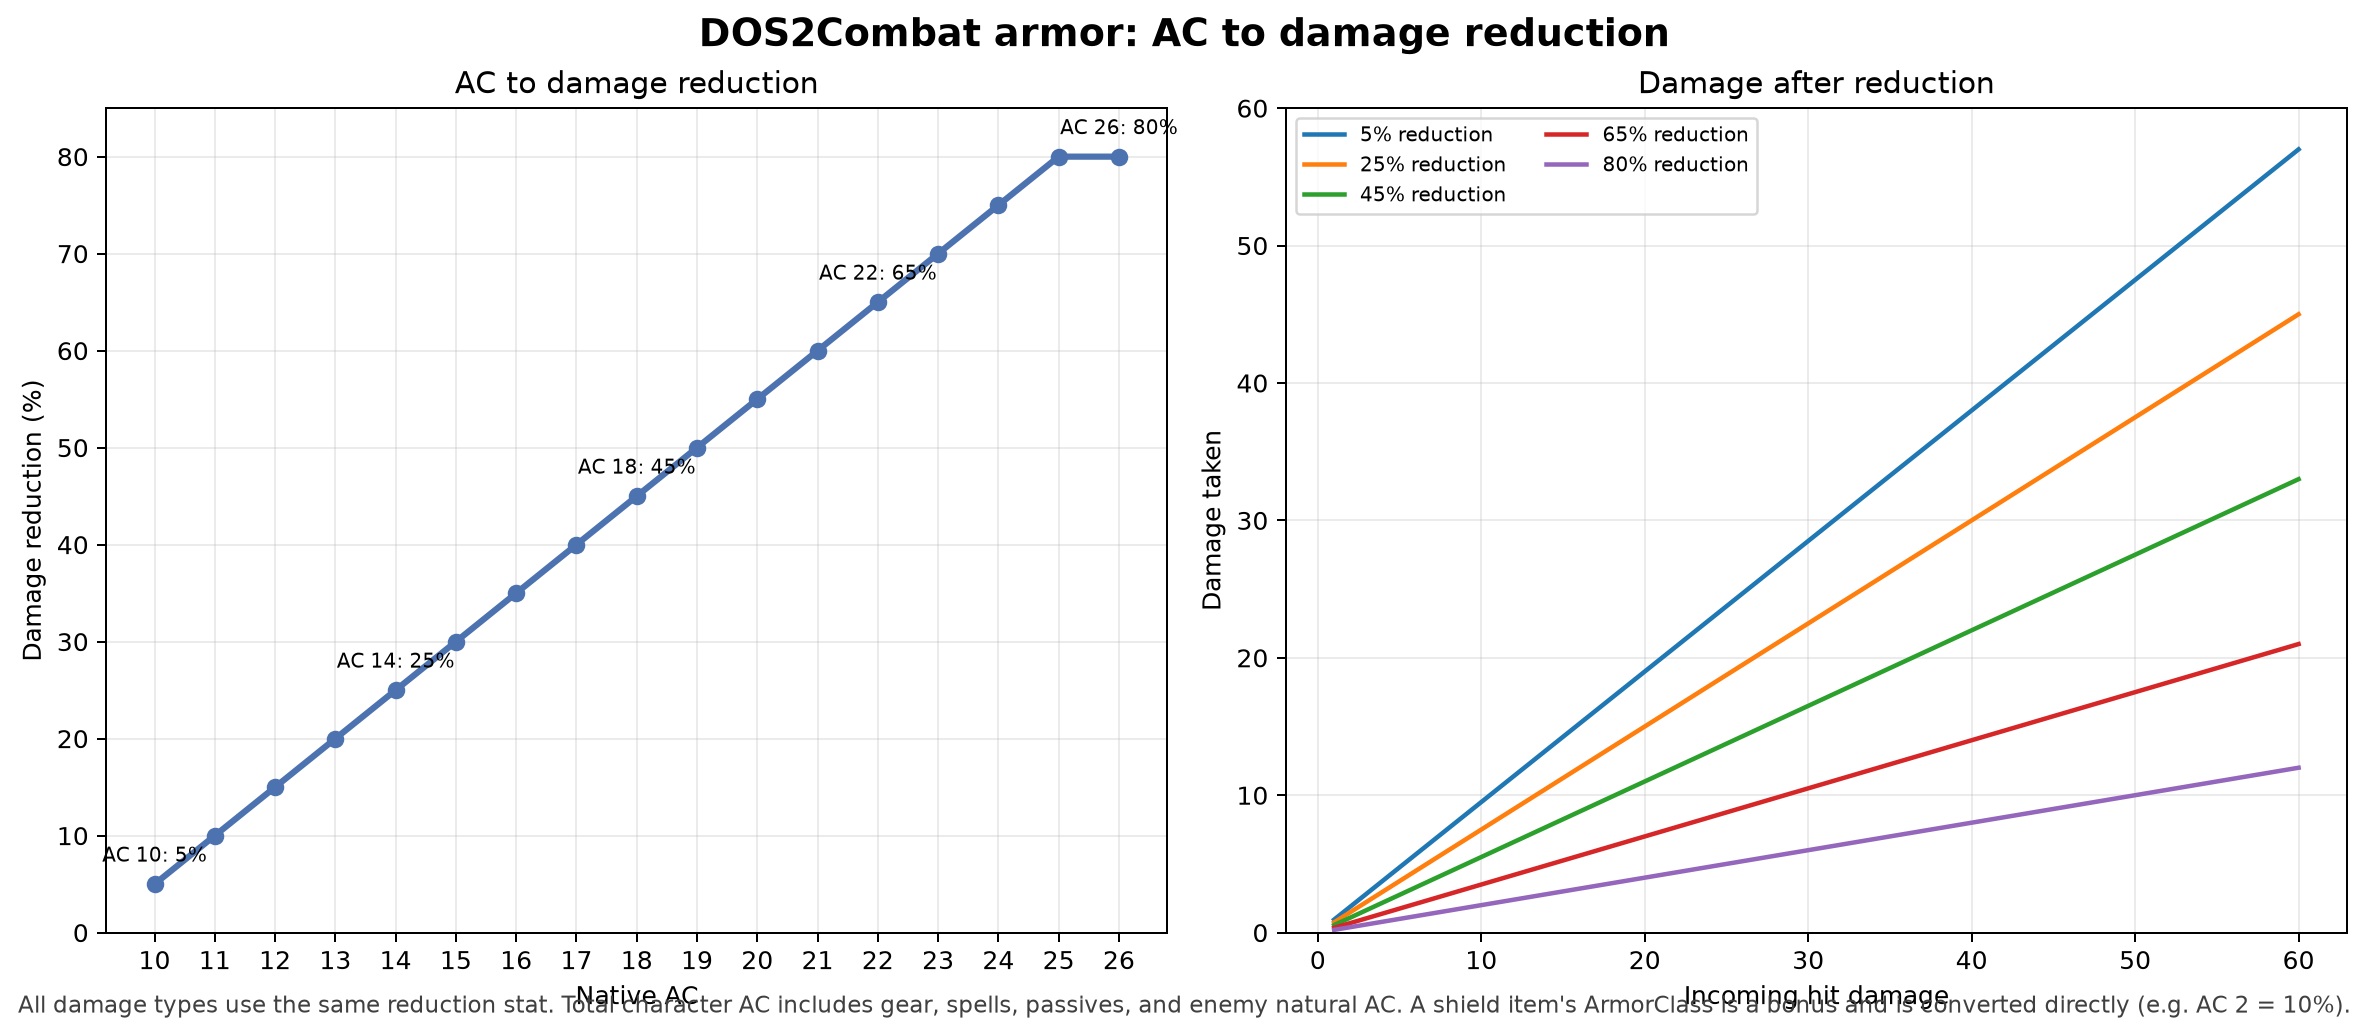
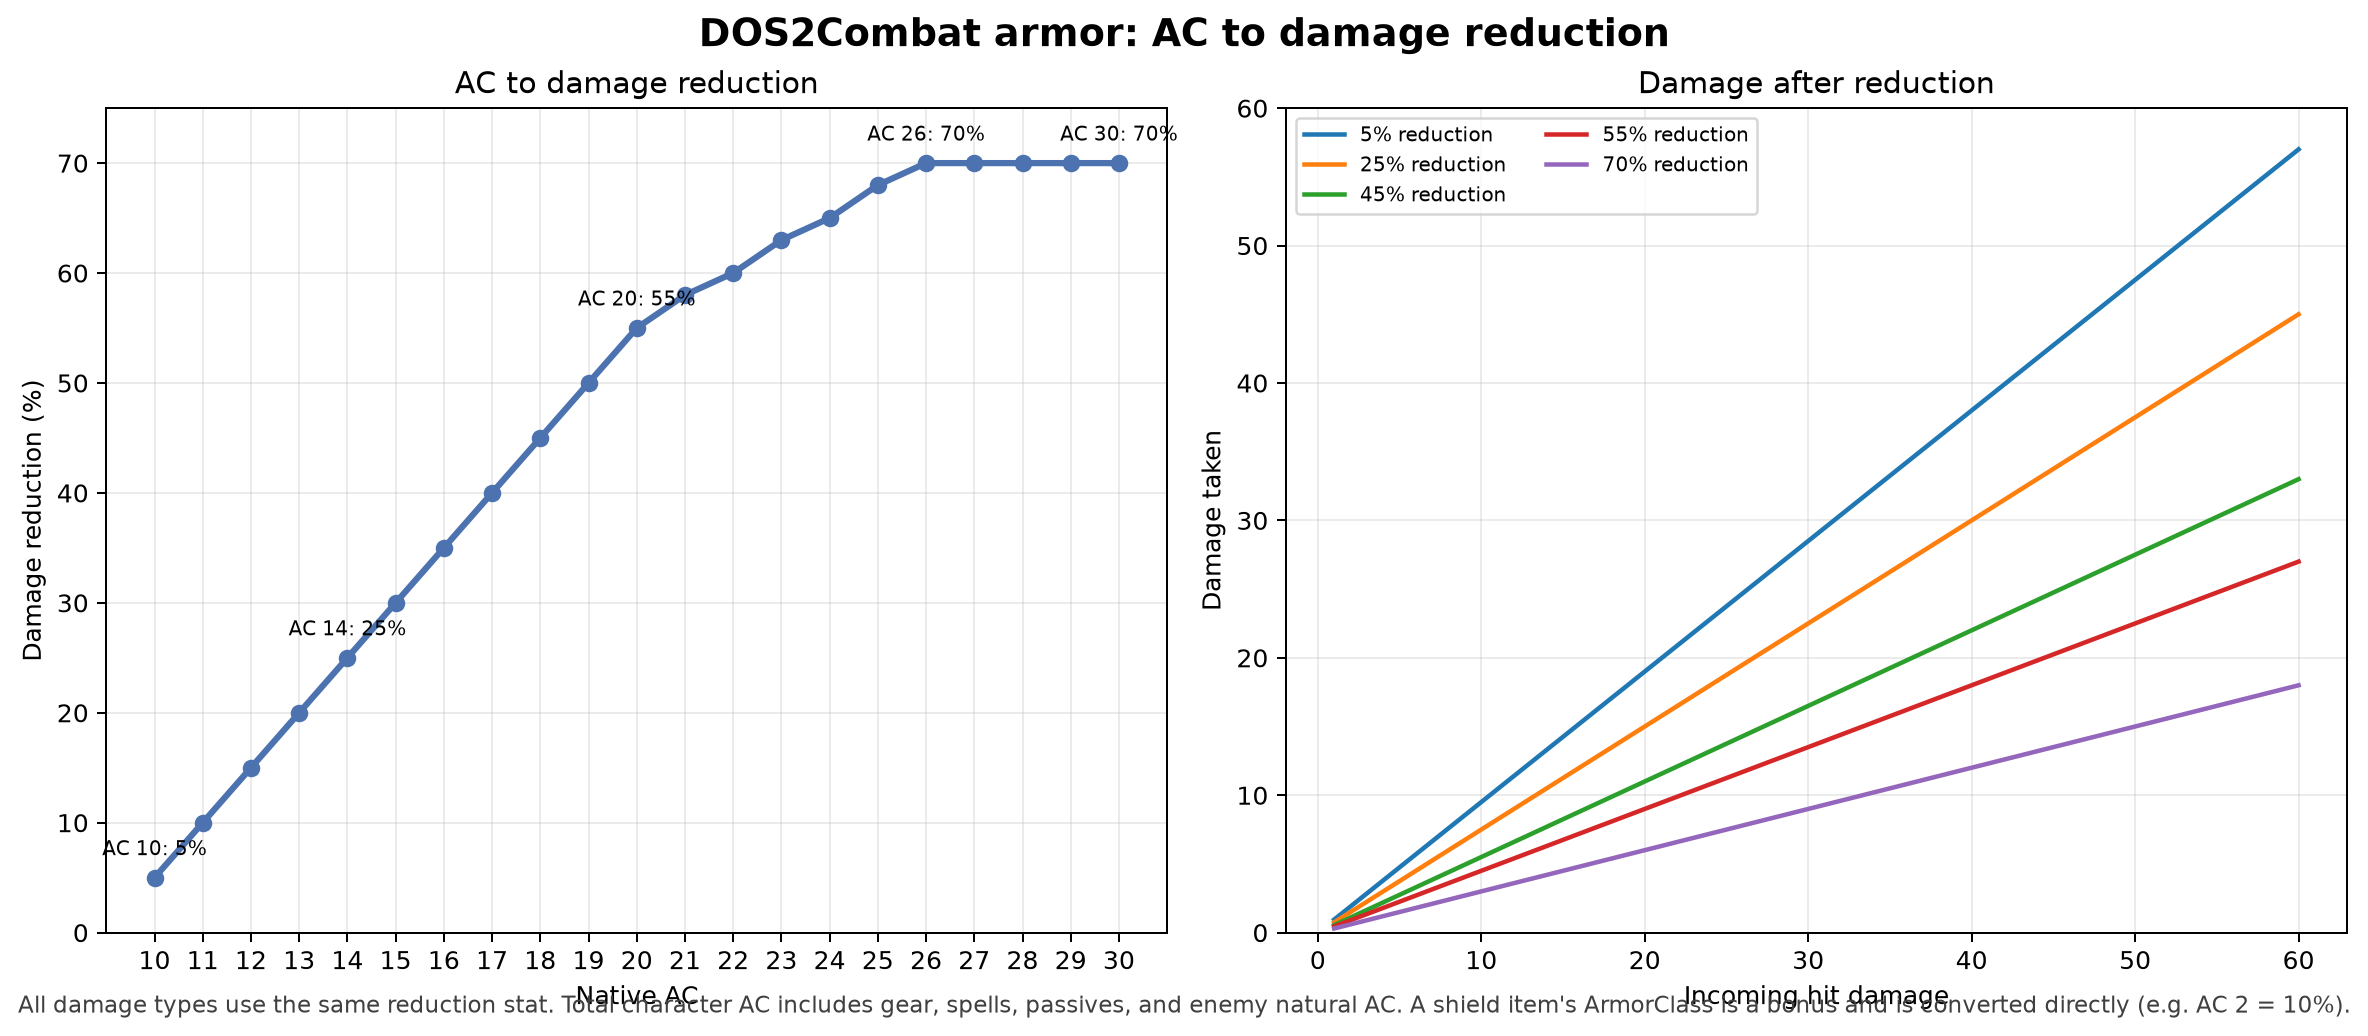
Cap damage reduction at 70 percent
Keep 5% per AC through AC 20, then use 2.5% per AC so AC 26+ caps at 70%. Regenerate tooltips/passives, graph, docs, and tests.

diff --git a/tests/test_dos2combat_utils.py b/tests/test_dos2combat_utils.py
@@ -108,7 +108,10 @@ class ArmorFormulaTests(unittest.TestCase):
     def test_ac_to_percentage_reduction(self):
         self.assertEqual(self.formula.Percent(10, False), 5)
         self.assertEqual(self.formula.Percent(14, False), 25)
+        self.assertEqual(self.formula.Percent(20, False), 55)
+        self.assertEqual(self.formula.Percent(21, False), 58)
+        self.assertEqual(self.formula.Percent(26, False), 70)
         self.assertEqual(self.formula.Percent(2, True), 10)
         self.assertAlmostEqual(self.formula.Fraction(14, False), 0.25)
         self.assertEqual(self.formula.PassiveName(13.2), "DOS2C_ArmorInfo_R13")
-        self.assertEqual(self.formula.Percent(99, False), 80)
+        self.assertEqual(self.formula.Percent(99, False), 70)

diff --git a/tests/test_manifests.py b/tests/test_manifests.py
@@ -80,7 +80,7 @@ class ManifestTests(unittest.TestCase):
             / "ArmorPassives.txt"
         )
         stats = parse_stats(path)
-        for percent in (0, 5, 10, 25, 80):
+        for percent in (0, 5, 10, 25, 70):
             with self.subTest(percent=percent):
                 self.assertIn(f"DOS2C_ArmorInfo_R{percent}", stats)
 

diff --git a/scripts/generate-armor-passives.py b/scripts/generate-armor-passives.py
@@ -20,7 +20,7 @@ LOCA = ROOT / "mods/DOS2Combat/Localization/English/DOS2Combat.loca"
 NS = uuid.UUID("6ba7b810-9dad-11d1-80b4-00c04fd430c8")
 
 # Matches Config.ARMOR_REDUCTION_MAX.
-MAX_PERCENT = 80
+MAX_PERCENT = 70
 
 
 def handle(tag: str) -> str:

diff --git a/README.md b/README.md
@@ -117,8 +117,9 @@ Ubuntu runner because LSLib requires Windows.
 - All AC sources are converted into **one percentage damage-reduction stat**.
   There are no separate physical and magic armor buckets. Every damage type
   uses the same reduction.
-- The formula is `(AC - 9) x 5%`, capped at 80%: AC 10 = 5%, AC 14 = 25%,
-  AC 20 = 55%. Shield items use their ArmorClass bonus directly.
+- The formula gives 5% per AC above 9 through AC 20, then 2.5% per AC,
+  capped at 70% from AC 26 onward: AC 10 = 5%, AC 14 = 25%, AC 20 = 55%,
+  AC 26 = 70%. Shield items use their ArmorClass bonus directly.
 - Enemy AC is converted into damage reduction instead of remaining as hit
   avoidance. A hidden no-dodge status also cancels AC from statuses, spells,
   and passives, including `ACOverrideFormula` effects.

diff --git a/TODO.md b/TODO.md
@@ -231,8 +231,9 @@ Known DOS2 visual references for the current test spells:
 
 - [x] Armor no longer depletes; all AC sources feed one percentage
       damage-reduction stat.
-- [x] Formula: `(AC - 9) x 5%`, capped at 80%. AC 10 = 5%, AC 14 = 25%,
-      AC 20 = 55%.
+- [x] Formula: 5% per AC above 9 through AC 20, then 2.5% per AC, capped
+      at 70% from AC 26 onward. AC 10 = 5%, AC 14 = 25%, AC 20 = 55%,
+      AC 26 = 70%.
 - [x] Shields use their AC bonus directly.
 - [x] Party reduction is derived from equipped armor and applicable statuses,
       not character level.
